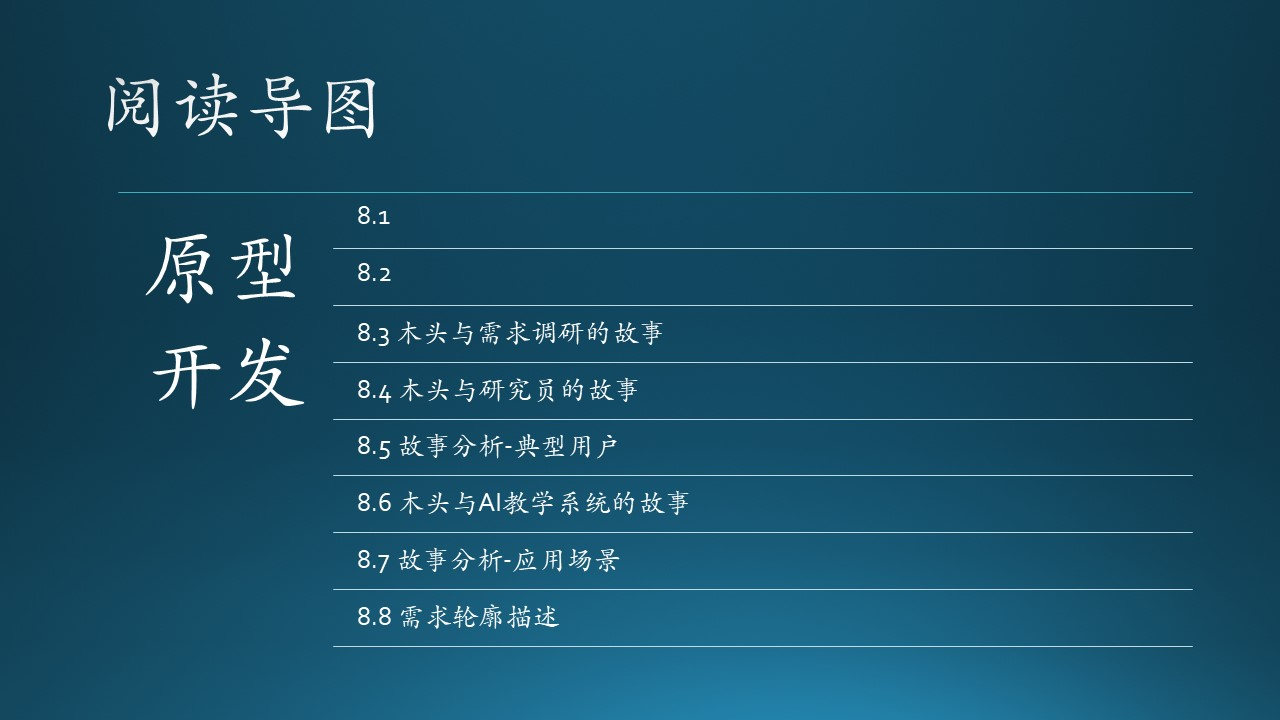
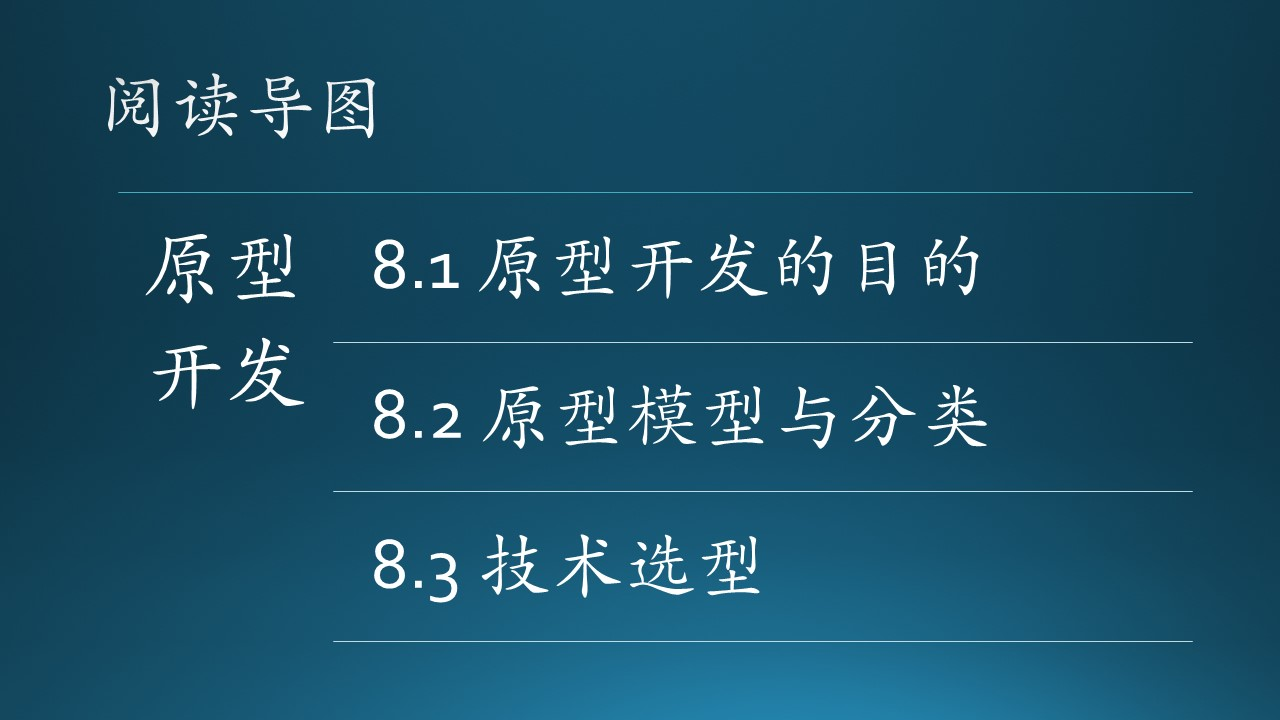
refine

Changed region(s): [[0.2812, 0.275, 0.7812, 0.4889], [0.2812, 0.6722, 0.5938, 0.8861], [0.2812, 0.5194, 0.7812, 0.6417]]

diff --git a/A-基础教程/A5-现代软件工程（更新中）/第4部分 界面与交互/ch8-原型设计/8.2 原型模型.md b/A-基础教程/A5-现代软件工程（更新中）/第4部分 界面与交互/ch8-原型设计/8.2 原型模型.md
@@ -1,9 +1,9 @@
-# 8.2 原型的种类
+# 8.2 原型模型
 
 ## 8.2.1 水平原型与垂直原型
 
 <div align="center">
-<img src="Images/Slide5.JPG"/>
+<img src="Images/Slide6.JPG"/>
 图 8.2.1 - 水平原型与垂直原型
 </div>
 
@@ -21,13 +21,44 @@
 
 图 8.2.1 右侧子图中其它三条线A/B/D，可能由于业务链较短，技术较为成熟，所以不需要搭建垂直原型。
 
-## 8.2.2 抛弃型原型或进化型原型
+## 8.2.2 低保真原型和高保真原型
+
+<div align="center">
+<img src="Images/Slide7.JPG"/>
+图 8.2.2 - 低保真和高保真原型
+</div>
+
+
+### 低保真原型
+
+低保真原型目标在于表达工作主要内容，体现静态的元素，不需要动态交互。有时候，低保真原型甚至可以不是在真正的用户设备上，而是在纸上画出来的。如果对于小型项目，或者只是用来做交流主要需求用时，就可以做低保真原型。
+
+### 高保真原型
+
+高保真原型目标是作出一个和实际上线后的产品差不多的样子，不仅包括静态的界面，还包括交互，甚至有的还把数据保存、逻辑验证等都包含在内。如果客户要求开发之前必须看到和实际产品一样的原型时，这时就需要做高保真原型。$^{[3]}$
+
+通过使用这个原型，客户可以对系统有一个真实的感觉，因为与原型的交互可以使客户更好地理解所需系统的需求。
+
+表 8.2.1 展示了两种原型的对比。
+
+表 8.2.1 - 低保真和高保真原型对比$^{[3]}$
+
+||低保真原型|高保真原型|
+|--|--|--|
+|视觉设计|仅呈现最终产品的一部分视觉属性，如元素的形状，基本视觉层次等|逼真细致的设计，所有界面元素、间距和图形看起来就像一个真正的产品|
+|内容|仅包含内容的关键元素|真实或类似于真实的内容|
+|交互性|原型交互可以由设计师手动完成，也可以给线框图制作交互效果，称为“交互线框图”|原型在交互层面非常逼真，由用户的实际的点击完成|
+|优点|便宜、快速、可群体贡献|可测试性强，易获得甲方认可|
+|缺点|交互性有限，需要使用者自己脑补细节，可测试性弱|费时，需要专业人员制作|
+
+
+## 8.2.3 抛弃型原型或进化型原型
 
 从原型存在生命时机考虑分为抛弃型原型和进化型原型。
 
 <div align="center">
-<img src="Images/Slide6.JPG"/>
-图 8.2.2 - 抛弃型原型或进化型原型
+<img src="Images/Slide8.JPG"/>
+图 8.2.3 - 抛弃型原型或进化型原型
 </div>
 
 ### 抛弃型原型
@@ -60,69 +91,55 @@ os.system('az vm start ...')
 
 仍以图 8.2.1 中的垂直原型为例，我们可以先用C1做成进化型原型（简化的有限功能子集），而把C2/C3看作抛弃型原型，这样整个功能C就可以跑通了。然后再改进C1，或者把C2再变成进化型原型。如此进化，功能C最终就变成实际产品了。
 
-## 8.2.3 低保真原型和高保真原型
+
+## 8.2.4 原型分类与流程总结
 
 <div align="center">
-<img src="Images/Slide7.JPG"/>
-图 8.2.3 - 低保真和高保真原型
+<img src="Images/Slide9.JPG"/>
+图 8.2.4 - 抛弃型原型或进化型原型
 </div>
 
+从图 8.2.4 横向看：
 
-### 低保真原型
+1. 作为一种需求分析工具，明确并完善需求原型，它初步实现所理解的系统的一部分。
 
-低保真原型目标在于表达工作主要内容，体现静态的元素，不需要动态交互。有时候，低保真原型甚至可以不是在真正的用户设备上，而是在纸上画出来的。如果对于小型项目，或者只是用来做交流主要需求用时，就可以做低保真原型。
+2. 作为一种设计工具，探索设计选择方案原型，探索不同的用户界面技术，使系统达到最佳的可用性，并且可以评价可能的技术方案。
 
-### 高保真原型
+3. 作为一种开发工具，发展为最终的产品原型，是产品最初子集的完整功能实现，通过一系列小规模的开发循环后可以完成整个产品的开发。
 
-高保真原型目标是作出一个和实际上线后的产品差不多的样子，不仅包括静态的界面，还包括交互，甚至有的还把数据保存、逻辑验证等都包含在内。如果客户要求开发之前必须看到和实际产品一样的原型时，这时就需要做高保真原型。$^{[3]}$
+纵向看：
 
-通过使用这个原型，客户可以对系统有一个真实的感觉，因为与原型的交互可以使客户更好地理解所需系统的需求。
-
-表 8.2.1 展示了两种原型的对比。
-
-表 8.2.1 - 低保真和高保真原型对比
-
-||低保真|高保真|
-|--|--|--|
-|视觉设计|仅呈现最终产品的一部分视觉属性（例如元素的形状，基本视觉层次等）。|逼真细致的设计，所有界面元素、间距和图形看起来就像一个真正的app或网站。|
-|内容|仅包含内容的关键元素。|设计人员使用真实或类似于真实内容。原型包括最终设计中显示的大部分或全部内容。|
-|交互性|原型交互可以由真人模拟，也可以给线框图制作交互效果，称为“交互线框图”。|原型在交互层面非常逼真，由实际的点击完成。|
+- 在面向用户界面部分，PM 和 Designer 需要多与用户进行交流，得到反馈，不断改进原型，成为真实产品；
+- 在面向系统架构部分，系统设计人员需要与开发人员多进行交流，及时了解业界最新或最成熟技术方案，抛弃原型中的替代品，开发简化版组件，并最终进化成实际产品组件。
 
 
-## 8.2.4 总结
+图 8.2.5 说明了在原型模型中执行的步骤。
+
+<div align="center">
+<img src="Images/Slide10.JPG"/>
+图 8.2.5 - 原型开发流程
+</div>
+
+1. 需求调研和分析：原型模型从需求分析开始，详细定义系统的需求。访问用户以了解系统的需求。
+
+2. 快速设计：当需求已知时，为系统创建一个初步设计或快速设计。它不是一个详细的设计，只包括系统的重要方面，这给用户一个系统的想法。快速设计有助于开发原型。
+
+3. 构建原型：从快速设计中收集的信息被修改成第一个原型，它代表所需系统的工作模型。
+
+4. 用户评估/系统评估：接下来，将建议的系统提交给用户，以便对原型进行全面评估，以识别其优势和弱点，例如要添加或删除的内容。从用户那里收集意见和建议并提供给开发人员、PM、Designer。
+
+5. 改进原型：用户对原型进行评价后，如果不满意，则根据需求对当前原型进行细化。也就是说，使用用户提供的附加信息开发一个新的原型。新原型的评估与之前的原型一样。此过程将持续到满足用户指定的所有要求。一旦用户对所开发的原型满意，就在最终原型的基础上开发出最终的系统。
+
+6. 形成工程产品：一旦完全满足要求，用户接受最终原型。对最终系统进行全面评估，形成稳定的产品。
 
 
+### 8.2.5 原型工具
 
+需求在产品开发中的重要性已经是不需争议的事实，现在需求方法有很多，业界最常用的一种办法就是通过原型展现需求，通过用例表达需求。业务人员掌握制作原型能够更快更清楚的表达业务，同客户和开发可以进行更直观的沟通，使得大家在理解上容易更一致。然而原型工具有非常多，比如大多数人用过的Excel、Access、Delphi、PowerPoint、Axure、Balsamiq Mockups、ForeUI、iRise、Lucid Spec、Mockup Screens、Pencil、Serena等，甚至开发工具雅奇等也可以用来做原型。工欲善其事，必先利其器，对于刚刚使用原型方法的业务人员来说，如何选择适合自己的原型工具呢？这就需要首先根据原型的目的明确做原型的粒度。
 
+在限定时间内能够将需求表达更清晰需要一个合适的工具。业务人员一般都不会有什么编程经验，我们怎么能够做出表达静态元素界面，又能加入动态交互功能的原型呢？为了能在需求阶段都能够更好的采用原型开发方法，我搜集并使用过多种原型工具，希望找打一款比较使用简单，但又能实现一般的交互功能，最好是业务人员学个一个小时就可以完全自己动手使用了。我用过一个原型工具 GUI Design Studio ，它的主要特点就是操作简单，不需要开发人员帮助，通过半个小时的学习后你将可以自己开始做原型了。《原型工具GUI Design Studio》对这个工具的使用进行可简单介绍。
 
-在原型和分析员的判断中，这个循环一直重复到。根据反馈，修改初始需求以生成最终需求规范，然后用于开发生产质量体系。
+原型不仅仅是界面
 
+我们可以通过原型来引导用户来使用系统解决问题，但原型不仅仅是需求，它还是设计、开发工具，所以作原型时不仅需要客户的参与，也需要技术人员的参与，但应该尽量由业务人员而非开发人员来实现原型的需求部分。下面是在UCD社区里面看到的一张图，原型最主要功能是表现界面，但要做好界面其实不容易，山下面还有很多东西需要考虑才能支撑界面，其实做原型的过程就是设计系统的过程。我们都希望尽量把开发工作前移，需求能做的工作就不留到开发环节做。如果软件模式一定，那么框架做得好的话就一定可以让业务人员来做一部分现在属于开发人员的工作（注：这部分工作其实本就该属于业务人员），那时大家就能体会到开发软件就如同做原型一样的乐趣了！
 
-
-图说明了在原型模型中执行的步骤。下面列出了这些步骤。
-
-1需求收集和分析：原型模型从需求分析开始，详细定义系统的需求。访问用户以了解系统的需求。
-
-
-
-2快速设计：当需求已知时，为系统创建一个初步设计或快速设计。它不是一个详细的设计，只包括系统的重要方面，这给用户一个系统的想法。快速设计有助于开发原型。
-
-
-
-三。构建原型：从快速设计中收集的信息被修改成第一个原型，它代表所需系统的工作模型。
-
-
-
-4用户评估：接下来，将建议的系统提交给用户，以便对原型进行全面评估，以识别其优势和弱点，例如要添加或删除的内容。从用户那里收集意见和建议并提供给开发人员。
-
-
-
-5精化原型：用户对原型进行评价后，如果不满意，则根据需求对当前原型进行细化。也就是说，使用用户提供的附加信息开发一个新的原型。新原型的评估与之前的原型一样。此过程将持续到满足用户指定的所有要求。一旦用户对所开发的原型满意，就在最终原型的基础上开发出最终的系统。
-
-
-
-6工程产品：一旦完全满足要求，用户接受最终原型。对最终系统进行全面评估，然后定期进行日常维护，以防止大规模故障和减少停机时间。
-
-
-
-表中列出了与原型模型相关的各种优缺点。

diff --git a/A-基础教程/A5-现代软件工程（更新中）/第4部分 界面与交互/ch8-原型设计/8.0 第八章 原型开发.md b/A-基础教程/A5-现代软件工程（更新中）/第4部分 界面与交互/ch8-原型设计/8.0 第八章 原型开发.md
@@ -11,92 +11,8 @@
 </div>
 
 
-技术选型
-原型实现
-工作量估计
-项目计划
-
 - [1] http://www.zhoujingen.cn/blog/5610.html
 - [2] 低保真原型与高保真原型，https://www.jianshu.com/p/c1fa72cb4021
-
 - [3] 原型的保真度，https://www.jianshu.com/p/c1fa72cb4021
-
 - [4] 制作原型的深度，https://www.jianshu.com/p/cb1c9294eec8
 
-prototype
-
-MVP
-
-
-
- 
-
-原型工具
-
-需求在产品开发中的重要性已经是不需争议的事实，现在需求方法有很多， 业界最常用的一种办法就是通过原型展现需求，通过用例表达需求。业务人员掌握制作原型能够更快更清楚的表达业务，同客户和开发可以进行更直观的沟通，使得大家在理解上容易更一致。然而原型工具有非常多，比如大多数人用过的Excel、Access、Delphi、PowerPoint、Axure、Balsamiq Mockups、ForeUI、iRise、Lucid Spec、Mockup Screens、Pencil、Serena等，甚至开发工具雅奇等也可以用来做原型。工欲善其事，必先利其器，对于刚刚使用原型方法的业务人员来说，如何选择适合自己的原型工具呢？这就需要首先根据原型的目的明确做原型的粒度。
-
-在限定时间内能够将需求表达更清晰需要一个合适的工具。业务人员一般都不会有什么编程经验，我们怎么能够做出表达静态元素界面，又能加入动态交互功能的原型呢？为了能在需求阶段都能够更好的采用原型开发方法，我搜集并使用过多种原型工具，希望找打一款比较使用简单，但又能实现一般的交互功能，最好是业务人员学个一个小时就可以完全自己动手使用了。我用过一个原型工具 GUI Design Studio ，它的主要特点就是操作简单，不需要开发人员帮助，通过半个小时的学习后你将可以自己开始做原型了。《原型工具GUI Design Studio》对这个工具的使用进行可简单介绍。
-
-原型不仅仅是界面
-
-我们可以通过原型来引导用户来使用系统解决问题，但原型不仅仅是需求，它还是设计、开发工具，所以作原型时不仅需要客户的参与，也需要技术人员的参与，但应该尽量由业务人员而非开发人员来实现原型的需求部分。下面是在UCD社区里面看到的一张图，原型最主要功能是表现界面，但要做好界面其实不容易，山下面还有很多东西需要考虑才能支撑界面，其实做原型的过程就是设计系统的过程。我们都希望尽量把开发工作前移，需求能做的工作就不留到开发环节做。如果软件模式一定，那么框架做得好的话就一定可以让业务人员来做一部分现在属于开发人员的工作（注：这部分工作其实本就该属于业务人员），那时大家就能体会到开发软件就如同做原型一样的乐趣了！
-
-使用原型有三个主要目的：
-
-
-OEA的原型工具将会考虑集成需求工具、设计工具和开发工具与一体，由业务需求人员、设计师和开发人员在OpenExpressApp平台下进行连贯的开发，它做的是水平、进化型、高保真原型。
-
-
-- Prototyping Style: This addresses the various
-approaches to developing prototypes. Prototypes can be developed as throwaway code
-or paper products, as an evolution of a working design, or as an executable specification.
-
-Different prototyping life cycle processes are
-typically used for each style. The style chosen is based on the type of results the project
-needs, the quality of the results needed, and
-the urgency of the results.
-
-- Prototyping Target: The target of the prototype activity is the specific product being
-served by the prototyping effort. Examples
-of prototyping targets include a requirements
-specification, an architectural design element
-or component, an algorithm, or a humanmachine user interface.
-
-- Prototyping Evaluation Techniques: A prototype may be used or evaluated in a number of ways by the software engineer or
-other project stakeholders, driven primarily
-by the underlying reasons that led to prototype development in the first place. Prototypes may be evaluated or tested against
-the actual implemented software or against 
-Software Engineering Models and Methods 9-9
-a target set of requirements (for example, a
-requirements prototype); the prototype may
-also serve as a model for a future software
-development effort (for example, as in a user
-interface specification).
-
-
-
-6.2. Prototyping
-Prototyping is commonly a means for validating
-the software engineer’s interpretation of the software requirements, as well as for eliciting new
-requirements. As with elicitation, there is a range
-of prototyping techniques and a number of points
-in the process where prototype validation may
-be appropriate. The advantage of prototypes is
-that they can make it easier to interpret the software engineer’s assumptions and, where needed,
-give useful feedback on why they are wrong. For
-example, the dynamic behavior of a user interface can be better understood through an animated prototype than through textual description
-or graphical models. The volatility of a requirement that is defined after prototyping has been
-done is extremely low because there is agreement
-between the stakeholder and the software engineer—therefore, for safety-critical and crucial
-features prototyping would really help. There are
-also disadvantages, however. These include the
-danger of users’ attention being distracted from
-the core underlying functionality by cosmetic
-issues or quality problems with the prototype. For
-this reason, some advocate prototypes that avoid
-software, such as flip-chart-based mockups. Prototypes may be costly to develop. However, if
-they avoid the wastage of resources caused by
-trying to satisfy erroneous requirements, their
-cost can be more easily justified. Early prototypes may contain aspects of the final solution.
-Prototypes may be evolutionary as opposed to
-throwaway.

diff --git a/A-基础教程/A5-现代软件工程（更新中）/第4部分 界面与交互/ch8-原型设计/8.4 估计与计划.md b/A-基础教程/A5-现代软件工程（更新中）/第4部分 界面与交互/ch8-原型设计/8.4 估计与计划.md
@@ -1,0 +1,8 @@
+# 8.4 估计与计划
+
+原型实现
+工作量估计
+项目计划
+
+## 8.4.1
+

diff --git a/A-基础教程/A5-现代软件工程（更新中）/第4部分 界面与交互/ch8-原型设计/8.3 技术选型.md b/A-基础教程/A5-现代软件工程（更新中）/第4部分 界面与交互/ch8-原型设计/8.3 技术选型.md
@@ -1,4 +1,7 @@
 # 8.3 技术选型
 
+技术选型
+原型实现
+
 ## 8.3.1
 
